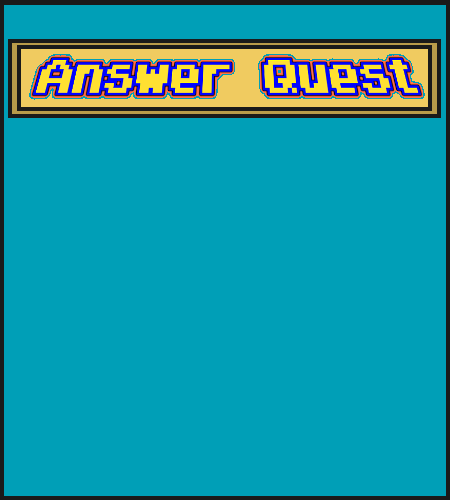
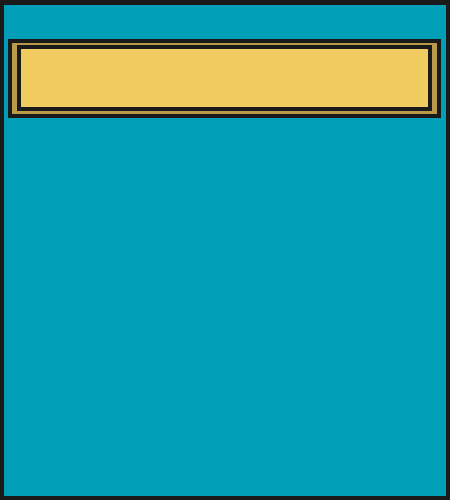
Sets menu title animation

Changed region(s): [[0.0622, 0.09, 0.5289, 0.21], [0.56, 0.09, 0.9644, 0.21]]

diff --git a/src/answerquestgame/Game.java b/src/answerquestgame/Game.java
@@ -6,6 +6,7 @@ package answerquestgame;
 
 import answerquestgame.Helpers.*;
 import answerquestgame.Play.*;
+import answerquestgame.Play.Level;
 import java.awt.*;
 import java.awt.image.BufferStrategy;
 import java.io.BufferedReader;
@@ -156,6 +157,7 @@ public class Game implements Runnable {
     private void tick() {
         keyManager.tick();
         if (isMenu) {
+            titleAnimation.tick();
             // Checks if mouse clicks on button
             if (startButton.isPressed()) {
                 isMenu = false;
@@ -178,7 +180,7 @@ public class Game implements Runnable {
                 g.clearRect(0,0, width,height);
                 // render menu stuff
                 g.drawImage(Assets.menuBackground, 0, 0, width, height, null);
-                //g.drawImage(Assets.startButton, (width/2 - 100), 250, 200, 100, null);
+                g.drawImage(titleAnimation.getCurrentFrame(), 30,70, 550, 120, null);
                 startButton.render(g);
                 bs.show();
                 g.dispose();
